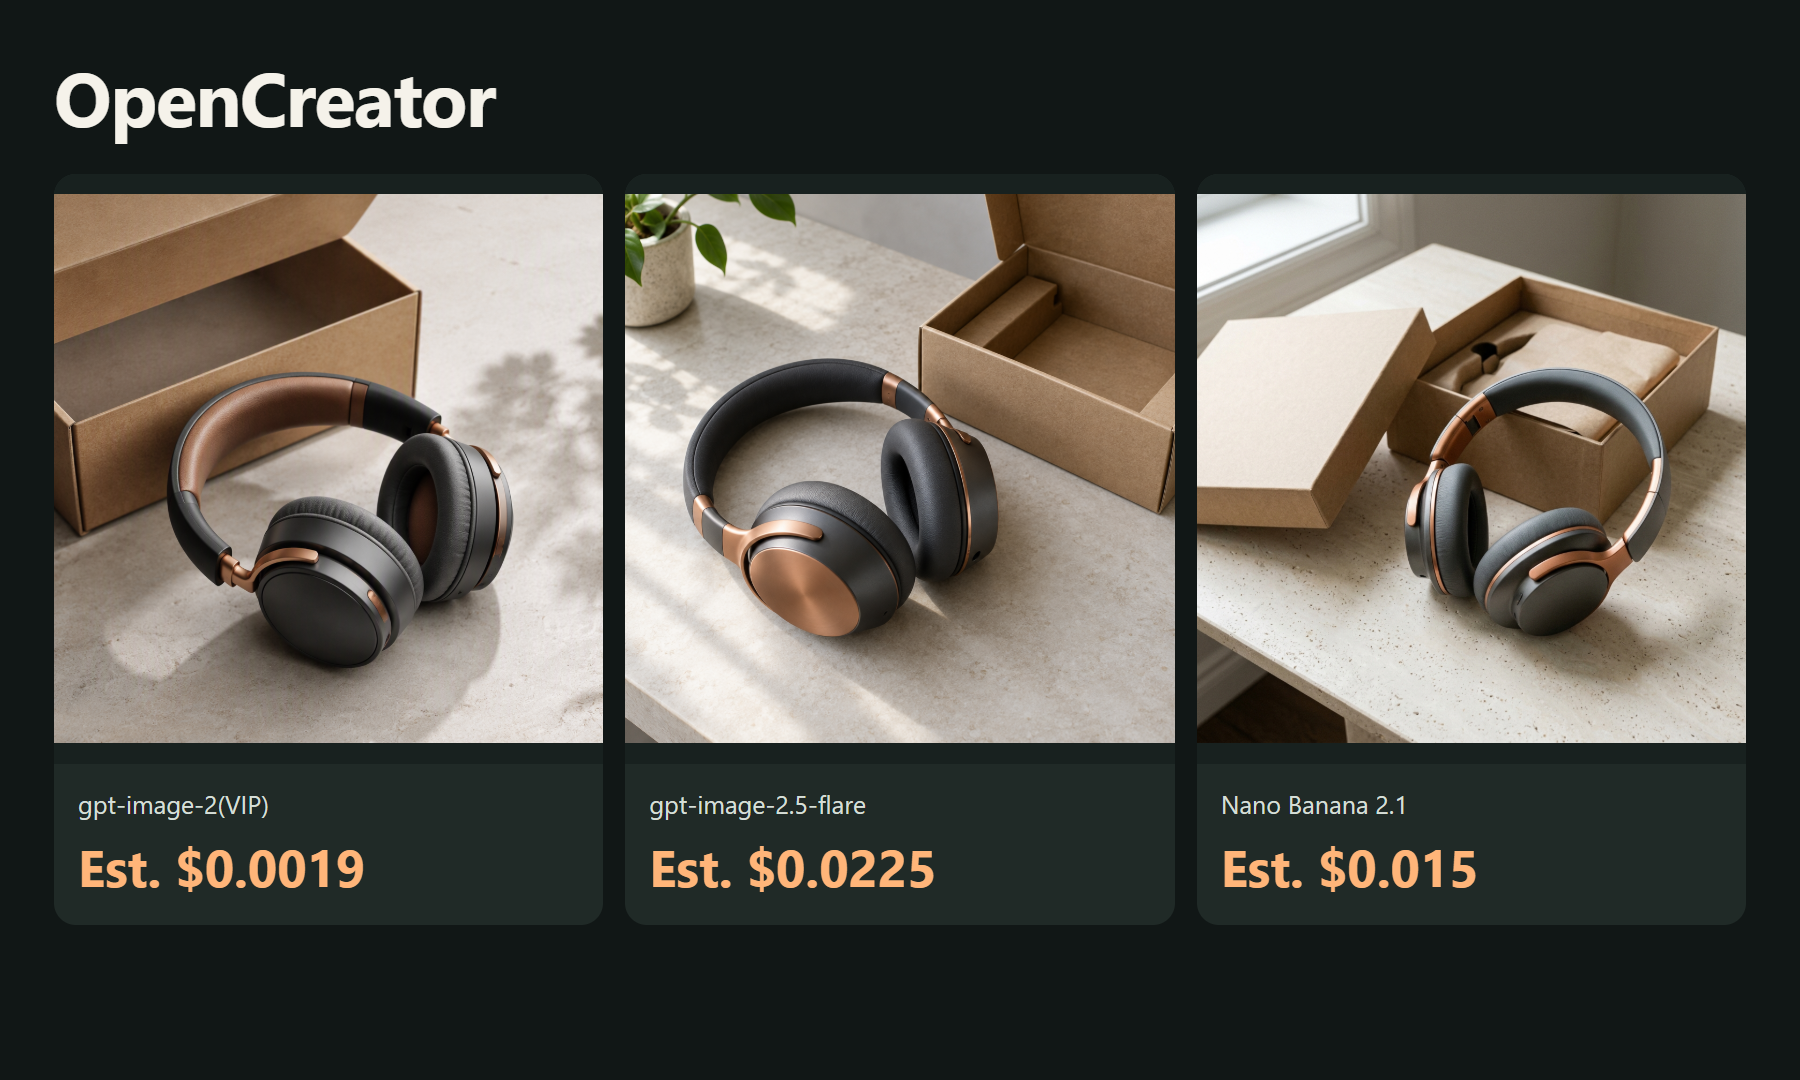
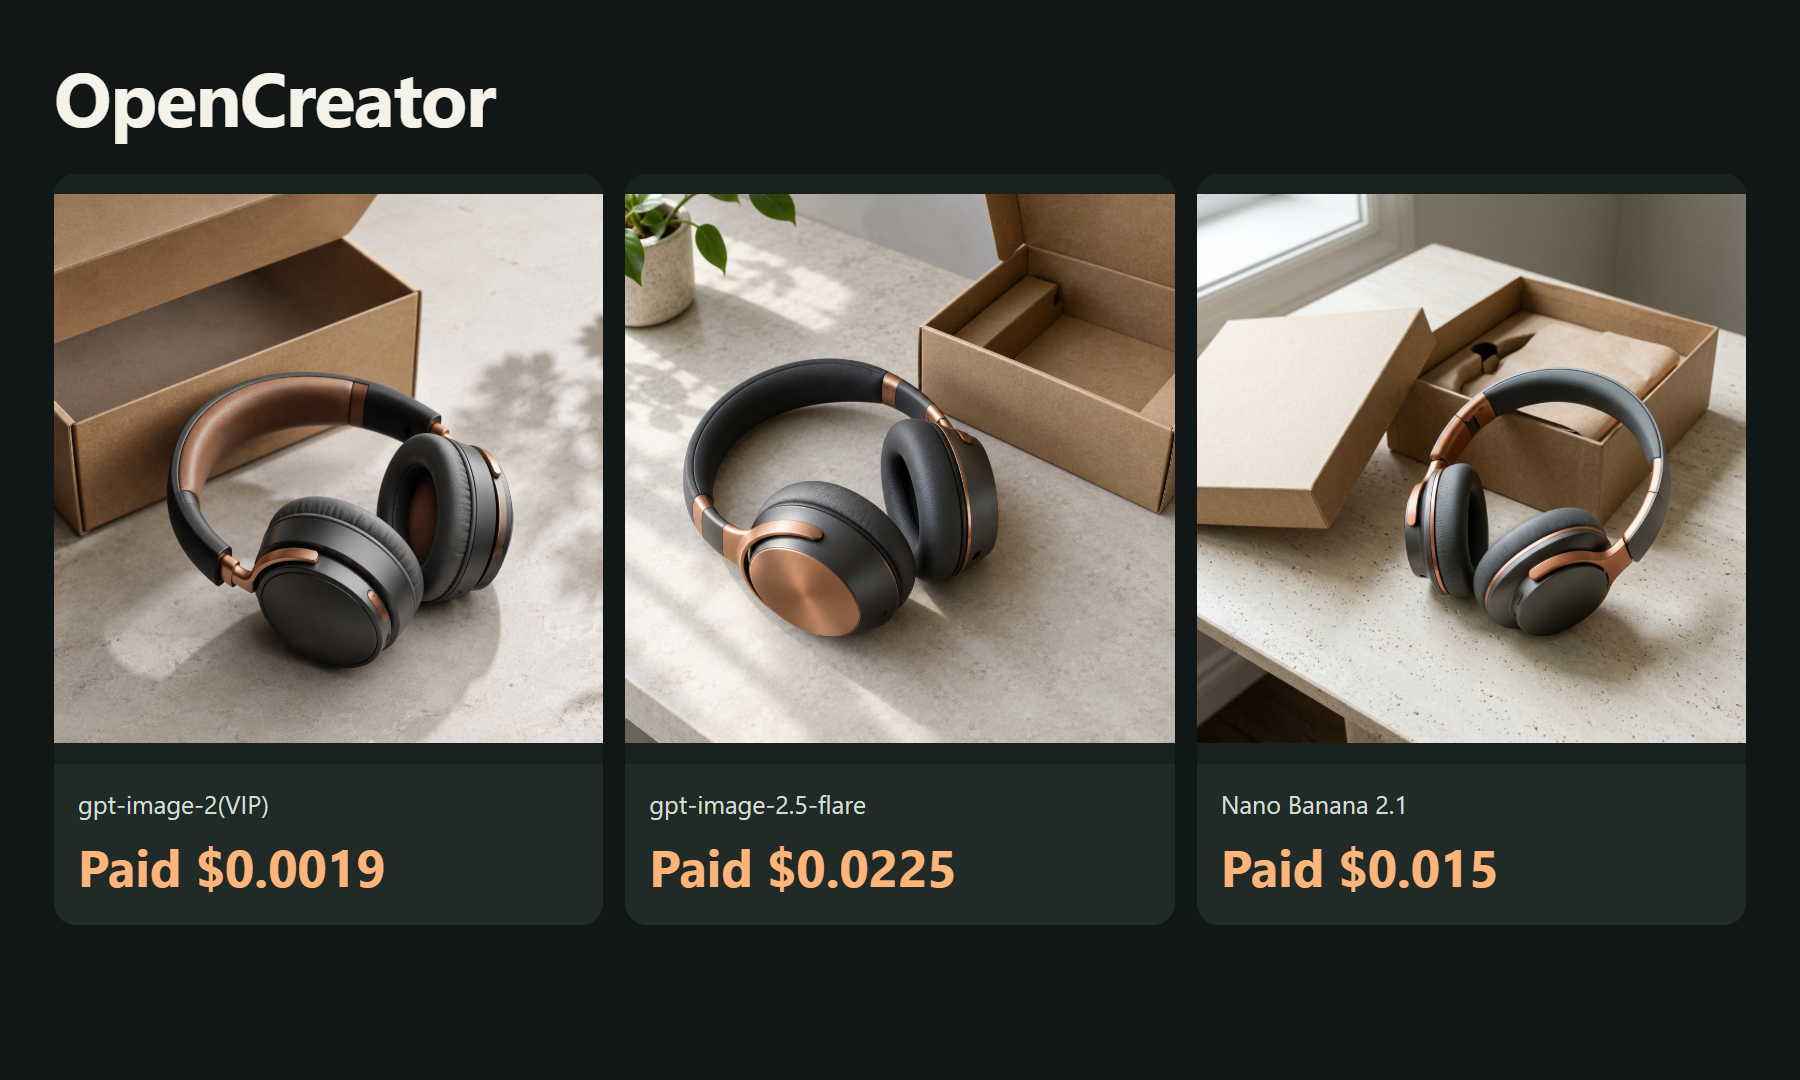
Publish original bilingual ToAPIs media examples, model pricing and real outputs

Changed region(s): [[0.0311, 0.7639, 0.2178, 0.825], [0.6844, 0.7639, 0.84, 0.825], [0.3733, 0.7639, 0.5289, 0.825]]

diff --git a/screenshots/cn/01-image-cases.html b/screenshots/cn/01-image-cases.html
@@ -1,1 +1,1 @@
-<!doctype html><html lang="zh-CN"><meta charset="utf-8"><title>OpenCreator</title><style>*{box-sizing:border-box}html,body{margin:0;width:1800px;height:1080px;overflow:hidden}body{background:#111716;color:#f5f2ea;font-family:"Segoe UI","Microsoft YaHei",sans-serif}.page{padding:54px 54px 40px}h1{font-size:76px;line-height:1.1;margin:0 0 36px;font-weight:650;letter-spacing:-1.5px}.grid{display:grid;gap:22px}.case{background:#202a27;border-radius:22px;overflow:hidden}.case img{display:block;width:100%;height:590px;object-fit:contain;background:#18211f}.caption{padding:24px 24px 28px}.model{font-size:25px;line-height:1.3;color:#d5dfd7;white-space:nowrap}.price{font-size:51px;line-height:1.2;color:#ffb579;font-weight:650;margin-top:16px}.video .case img{height:610px}.video .model{font-size:30px}.video .price{font-size:50px}</style><main class="page "><h1>OpenCreator</h1><div class="grid" style="grid-template-columns:repeat(3,1fr)"><section class="case"><img src="../../examples/gpt-image-2-vip.png"><div class="caption"><div class="model">gpt-image-2(VIP)</div><div class="price">预计 $0.0019</div></div></section><section class="case"><img src="../../examples/gpt-image-2-5-flare.png"><div class="caption"><div class="model">gpt-image-2.5-flare</div><div class="price">预计 $0.0225</div></div></section><section class="case"><img src="../../examples/gemini-nano-banana-2-1.png"><div class="caption"><div class="model">Nano Banana 2.1</div><div class="price">预计 $0.015</div></div></section></div></main></html>
+<!doctype html><html lang="zh-CN"><meta charset="utf-8"><title>OpenCreator</title><style>*{box-sizing:border-box}html,body{margin:0;width:1800px;height:1080px;overflow:hidden}body{background:#111716;color:#f5f2ea;font-family:"Segoe UI","Microsoft YaHei",sans-serif}.page{padding:54px 54px 40px}h1{font-size:76px;line-height:1.1;margin:0 0 36px;font-weight:650;letter-spacing:-1.5px}.grid{display:grid;gap:22px}.case{background:#202a27;border-radius:22px;overflow:hidden}.case img{display:block;width:100%;height:590px;object-fit:contain;background:#18211f}.caption{padding:24px 24px 28px}.model{font-size:25px;line-height:1.3;color:#d5dfd7;white-space:nowrap}.price{font-size:51px;line-height:1.2;color:#ffb579;font-weight:650;margin-top:16px}.video .case img{height:610px}.video .model{font-size:30px}.video .price{font-size:50px}</style><main class="page "><h1>OpenCreator</h1><div class="grid" style="grid-template-columns:repeat(3,1fr)"><section class="case"><img src="../../examples/gpt-image-2-vip.png"><div class="caption"><div class="model">gpt-image-2(VIP)</div><div class="price">实扣 $0.0019</div></div></section><section class="case"><img src="../../examples/gpt-image-2-5-flare.png"><div class="caption"><div class="model">gpt-image-2.5-flare</div><div class="price">实扣 $0.0225</div></div></section><section class="case"><img src="../../examples/gemini-nano-banana-2-1.png"><div class="caption"><div class="model">Nano Banana 2.1</div><div class="price">实扣 $0.015</div></div></section></div></main></html>

diff --git a/screenshots/en/01-image-cases.html b/screenshots/en/01-image-cases.html
@@ -1,1 +1,1 @@
-<!doctype html><html lang="en"><meta charset="utf-8"><title>OpenCreator</title><style>*{box-sizing:border-box}html,body{margin:0;width:1800px;height:1080px;overflow:hidden}body{background:#111716;color:#f5f2ea;font-family:"Segoe UI","Microsoft YaHei",sans-serif}.page{padding:54px 54px 40px}h1{font-size:76px;line-height:1.1;margin:0 0 36px;font-weight:650;letter-spacing:-1.5px}.grid{display:grid;gap:22px}.case{background:#202a27;border-radius:22px;overflow:hidden}.case img{display:block;width:100%;height:590px;object-fit:contain;background:#18211f}.caption{padding:24px 24px 28px}.model{font-size:25px;line-height:1.3;color:#d5dfd7;white-space:nowrap}.price{font-size:51px;line-height:1.2;color:#ffb579;font-weight:650;margin-top:16px}.video .case img{height:610px}.video .model{font-size:30px}.video .price{font-size:50px}</style><main class="page "><h1>OpenCreator</h1><div class="grid" style="grid-template-columns:repeat(3,1fr)"><section class="case"><img src="../../examples/gpt-image-2-vip.png"><div class="caption"><div class="model">gpt-image-2(VIP)</div><div class="price">Est. $0.0019</div></div></section><section class="case"><img src="../../examples/gpt-image-2-5-flare.png"><div class="caption"><div class="model">gpt-image-2.5-flare</div><div class="price">Est. $0.0225</div></div></section><section class="case"><img src="../../examples/gemini-nano-banana-2-1.png"><div class="caption"><div class="model">Nano Banana 2.1</div><div class="price">Est. $0.015</div></div></section></div></main></html>
+<!doctype html><html lang="en"><meta charset="utf-8"><title>OpenCreator</title><style>*{box-sizing:border-box}html,body{margin:0;width:1800px;height:1080px;overflow:hidden}body{background:#111716;color:#f5f2ea;font-family:"Segoe UI","Microsoft YaHei",sans-serif}.page{padding:54px 54px 40px}h1{font-size:76px;line-height:1.1;margin:0 0 36px;font-weight:650;letter-spacing:-1.5px}.grid{display:grid;gap:22px}.case{background:#202a27;border-radius:22px;overflow:hidden}.case img{display:block;width:100%;height:590px;object-fit:contain;background:#18211f}.caption{padding:24px 24px 28px}.model{font-size:25px;line-height:1.3;color:#d5dfd7;white-space:nowrap}.price{font-size:51px;line-height:1.2;color:#ffb579;font-weight:650;margin-top:16px}.video .case img{height:610px}.video .model{font-size:30px}.video .price{font-size:50px}</style><main class="page "><h1>OpenCreator</h1><div class="grid" style="grid-template-columns:repeat(3,1fr)"><section class="case"><img src="../../examples/gpt-image-2-vip.png"><div class="caption"><div class="model">gpt-image-2(VIP)</div><div class="price">Paid $0.0019</div></div></section><section class="case"><img src="../../examples/gpt-image-2-5-flare.png"><div class="caption"><div class="model">gpt-image-2.5-flare</div><div class="price">Paid $0.0225</div></div></section><section class="case"><img src="../../examples/gemini-nano-banana-2-1.png"><div class="caption"><div class="model">Nano Banana 2.1</div><div class="price">Paid $0.015</div></div></section></div></main></html>

diff --git a/screenshots/cn/02-video-case.html b/screenshots/cn/02-video-case.html
@@ -1,1 +1,1 @@
-<!doctype html><html lang="zh-CN"><meta charset="utf-8"><title>OpenCreator</title><style>*{box-sizing:border-box}html,body{margin:0;width:1800px;height:1080px;overflow:hidden}body{background:#111716;color:#f5f2ea;font-family:"Segoe UI","Microsoft YaHei",sans-serif}.page{padding:54px 54px 40px}h1{font-size:76px;line-height:1.1;margin:0 0 36px;font-weight:650;letter-spacing:-1.5px}.grid{display:grid;gap:22px}.case{background:#202a27;border-radius:22px;overflow:hidden}.case img{display:block;width:100%;height:590px;object-fit:contain;background:#18211f}.caption{padding:24px 24px 28px}.model{font-size:25px;line-height:1.3;color:#d5dfd7;white-space:nowrap}.price{font-size:51px;line-height:1.2;color:#ffb579;font-weight:650;margin-top:16px}.video .case img{height:610px}.video .model{font-size:30px}.video .price{font-size:50px}</style><main class="page video"><h1>OpenCreator</h1><div class="grid" style="grid-template-columns:repeat(2,1fr)"><section class="case"><img src="../../examples/gpt-image-2-vip.png"><div class="caption"><div class="model">gpt-image-2(VIP)</div><div class="price">预计 $0.0019</div></div></section><section class="case"><img src="../../demo/video-frame.jpg"><div class="caption"><div class="model">MiniMax H3 · 5s / 768p</div><div class="price">预计 $0.40</div></div></section></div></main></html>
+<!doctype html><html lang="zh-CN"><meta charset="utf-8"><title>OpenCreator</title><style>*{box-sizing:border-box}html,body{margin:0;width:1800px;height:1080px;overflow:hidden}body{background:#111716;color:#f5f2ea;font-family:"Segoe UI","Microsoft YaHei",sans-serif}.page{padding:54px 54px 40px}h1{font-size:76px;line-height:1.1;margin:0 0 36px;font-weight:650;letter-spacing:-1.5px}.grid{display:grid;gap:22px}.case{background:#202a27;border-radius:22px;overflow:hidden}.case img{display:block;width:100%;height:590px;object-fit:contain;background:#18211f}.caption{padding:24px 24px 28px}.model{font-size:25px;line-height:1.3;color:#d5dfd7;white-space:nowrap}.price{font-size:51px;line-height:1.2;color:#ffb579;font-weight:650;margin-top:16px}.video .case img{height:610px}.video .model{font-size:30px}.video .price{font-size:50px}</style><main class="page video"><h1>OpenCreator</h1><div class="grid" style="grid-template-columns:repeat(2,1fr)"><section class="case"><img src="../../examples/gpt-image-2-vip.png"><div class="caption"><div class="model">gpt-image-2(VIP)</div><div class="price">实扣 $0.0019</div></div></section><section class="case"><img src="../../demo/video-frame.jpg"><div class="caption"><div class="model">MiniMax H3 · 5s / 768p</div><div class="price">实扣 $0.40</div></div></section></div></main></html>

diff --git a/screenshots/en/02-video-case.html b/screenshots/en/02-video-case.html
@@ -1,1 +1,1 @@
-<!doctype html><html lang="en"><meta charset="utf-8"><title>OpenCreator</title><style>*{box-sizing:border-box}html,body{margin:0;width:1800px;height:1080px;overflow:hidden}body{background:#111716;color:#f5f2ea;font-family:"Segoe UI","Microsoft YaHei",sans-serif}.page{padding:54px 54px 40px}h1{font-size:76px;line-height:1.1;margin:0 0 36px;font-weight:650;letter-spacing:-1.5px}.grid{display:grid;gap:22px}.case{background:#202a27;border-radius:22px;overflow:hidden}.case img{display:block;width:100%;height:590px;object-fit:contain;background:#18211f}.caption{padding:24px 24px 28px}.model{font-size:25px;line-height:1.3;color:#d5dfd7;white-space:nowrap}.price{font-size:51px;line-height:1.2;color:#ffb579;font-weight:650;margin-top:16px}.video .case img{height:610px}.video .model{font-size:30px}.video .price{font-size:50px}</style><main class="page video"><h1>OpenCreator</h1><div class="grid" style="grid-template-columns:repeat(2,1fr)"><section class="case"><img src="../../examples/gpt-image-2-vip.png"><div class="caption"><div class="model">gpt-image-2(VIP)</div><div class="price">Est. $0.0019</div></div></section><section class="case"><img src="../../demo/video-frame.jpg"><div class="caption"><div class="model">MiniMax H3 · 5s / 768p</div><div class="price">Est. $0.40</div></div></section></div></main></html>
+<!doctype html><html lang="en"><meta charset="utf-8"><title>OpenCreator</title><style>*{box-sizing:border-box}html,body{margin:0;width:1800px;height:1080px;overflow:hidden}body{background:#111716;color:#f5f2ea;font-family:"Segoe UI","Microsoft YaHei",sans-serif}.page{padding:54px 54px 40px}h1{font-size:76px;line-height:1.1;margin:0 0 36px;font-weight:650;letter-spacing:-1.5px}.grid{display:grid;gap:22px}.case{background:#202a27;border-radius:22px;overflow:hidden}.case img{display:block;width:100%;height:590px;object-fit:contain;background:#18211f}.caption{padding:24px 24px 28px}.model{font-size:25px;line-height:1.3;color:#d5dfd7;white-space:nowrap}.price{font-size:51px;line-height:1.2;color:#ffb579;font-weight:650;margin-top:16px}.video .case img{height:610px}.video .model{font-size:30px}.video .price{font-size:50px}</style><main class="page video"><h1>OpenCreator</h1><div class="grid" style="grid-template-columns:repeat(2,1fr)"><section class="case"><img src="../../examples/gpt-image-2-vip.png"><div class="caption"><div class="model">gpt-image-2(VIP)</div><div class="price">Paid $0.0019</div></div></section><section class="case"><img src="../../demo/video-frame.jpg"><div class="caption"><div class="model">MiniMax H3 · 5s / 768p</div><div class="price">Paid $0.40</div></div></section></div></main></html>

diff --git a/README.md b/README.md
@@ -4,7 +4,7 @@
 
 Make creator assets in an AI workspace.
 
-October 16, 2026: 3 real images and 1 real video. Catalog estimate for these completed assets: **$0.4394**; settled charges pending.
+October 16, 2026: 3 real images and 1 real video. Confirmed charge for these completed assets: **$0.4394 (87.88 credits)**, reconciled by task ID against the owner-provided dashboard export.
 
 [ToAPIs · model pricing and setup](https://go2v.toapis.com/oc16ge)
 
@@ -20,12 +20,12 @@ October 16, 2026: 3 real images and 1 real video. Catalog estimate for these com
 
 | Model | Preset | Catalog estimate / output | Settled charge |
 |---|---|---:|---|
-| gpt-image-2(VIP) | low / 1K | $0.0019 | pending |
-| gpt-image-2.5-flare | high / 1K | $0.0225 | pending |
-| Nano Banana 2.1 | 1K | $0.015 | pending |
-| MiniMax H3 | 5s / 768p / first-frame | $0.40 ($0.08/s) | pending |
+| gpt-image-2(VIP) | low / 1K | $0.0019 | $0.0019 |
+| gpt-image-2.5-flare | high / 1K | $0.0225 | $0.0225 |
+| Nano Banana 2.1 | 1K | $0.015 | $0.015 |
+| MiniMax H3 | 5s / 768p / first-frame | $0.40 ($0.08/s) | $0.4 |
 
-These are catalog estimates for the specified presets, not confirmed settled charges. Different models/presets do not imply equal quality. See evidence and examples for task records and originals.
+Catalog rates and confirmed charges match for these tested presets. Charges were reconciled against the owner-provided dashboard export at USD 0.005 per credit. Different models/presets do not imply equal quality. See evidence and examples for task records and originals.
 
 ## Run it
 

diff --git a/README_zh-CN.md b/README_zh-CN.md
@@ -4,7 +4,7 @@
 
 用AI工作台做创作者的图片和视频素材。
 
-2026-10-16：3张真实图片、1段真实视频；本批成功素材按价表估算 **$0.4394**，实际扣费待后台核对。
+2026-10-16：3张真实图片、1段真实视频；本批成功素材实扣 **$0.4394（87.88积分）**，已按后台导出逐任务核对。
 
 [ToAPIs · 对应模型价格与接入](https://go2v.toapis.com/oc16gc)
 
@@ -20,12 +20,12 @@
 
 | Model | Preset | Catalog estimate / output | Settled charge |
 |---|---|---:|---|
-| gpt-image-2(VIP) | low / 1K | $0.0019 | 待核对 |
-| gpt-image-2.5-flare | high / 1K | $0.0225 | 待核对 |
-| Nano Banana 2.1 | 1K | $0.015 | 待核对 |
-| MiniMax H3 | 5s / 768p / first-frame | $0.40 ($0.08/s) | 待核对 |
+| gpt-image-2(VIP) | low / 1K | $0.0019 | $0.0019 |
+| gpt-image-2.5-flare | high / 1K | $0.0225 | $0.0225 |
+| Nano Banana 2.1 | 1K | $0.015 | $0.015 |
+| MiniMax H3 | 5s / 768p / first-frame | $0.40 ($0.08/s) | $0.4 |
 
-以上是本次明确配置的费率估算，不是已结算金额；不同模型/画质不表示同等质量。每项任务、请求和原始文件见evidence与examples。
+对应配置的价表与本次实扣一致；实扣来自后台导出，1积分=$0.005。不同模型/画质不表示同等质量。逐任务记录和原始文件见evidence与examples。
 
 ## 怎么运行
 
